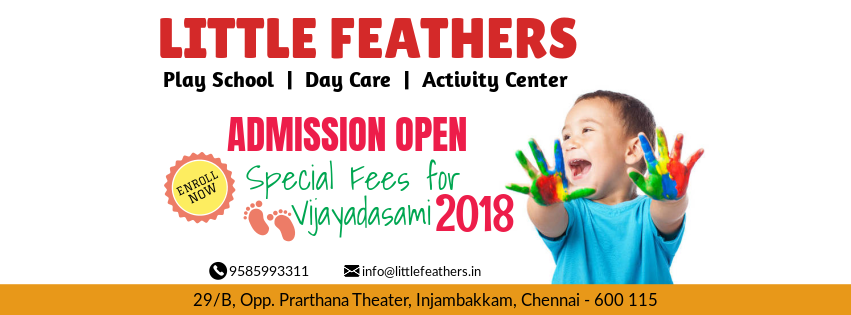
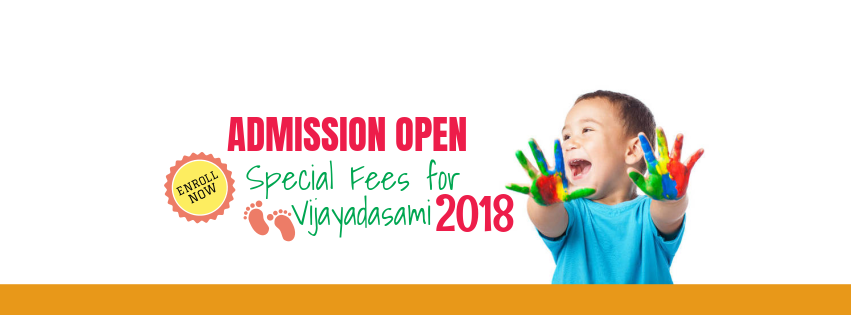
updated admission pic

diff --git a/index.html b/index.html
@@ -90,14 +90,14 @@
             </div>
           </div>
           <!-- Slide Two - Set the background image for this slide in the line below -->
-          <div class="carousel-item" style="background-image: url('img/portfolio/cabin.png')">
+          <div class="carousel-item" style="background-image: url('img/banners/admission.png')">
             <div class="carousel-caption d-none d-md-block">
               <h3>Second Slide</h3>
               <p>This is a description for the second slide.</p>
             </div>
           </div>
           <!-- Slide Three - Set the background image for this slide in the line below -->
-          <div class="carousel-item" style="background-image: url('img/portfolio/game.png')">
+          <div class="carousel-item" style="background-image: url('img/banners/admission.png')">
             <div class="carousel-caption d-none d-md-block">
               <h3>Third Slide</h3>
               <p>This is a description for the third slide.</p>
